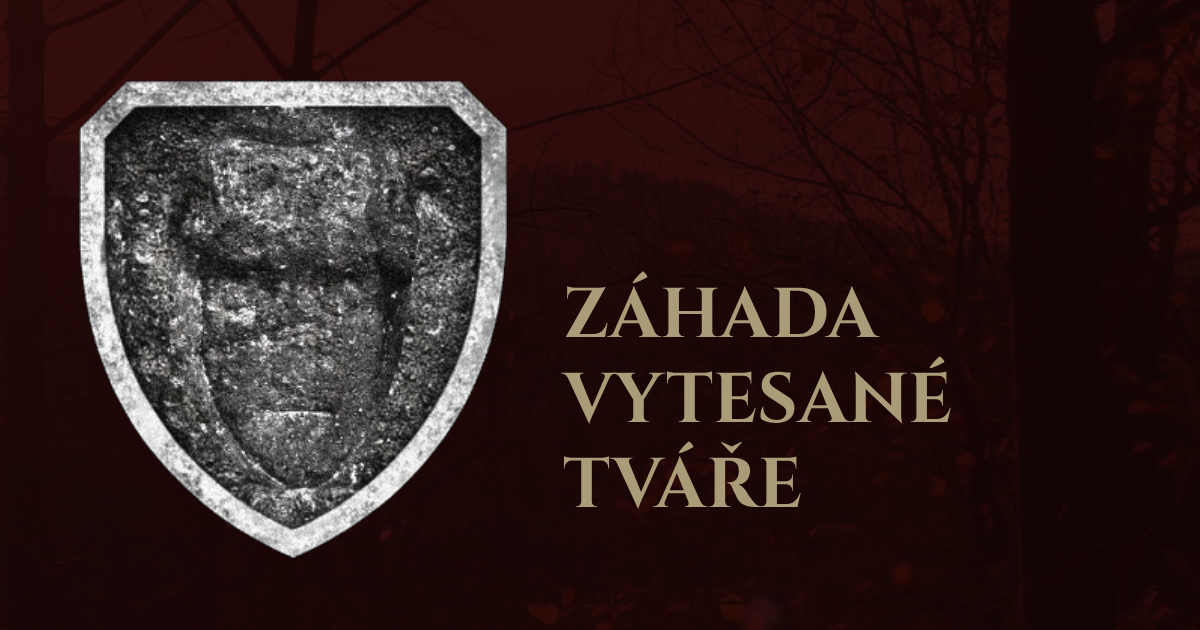
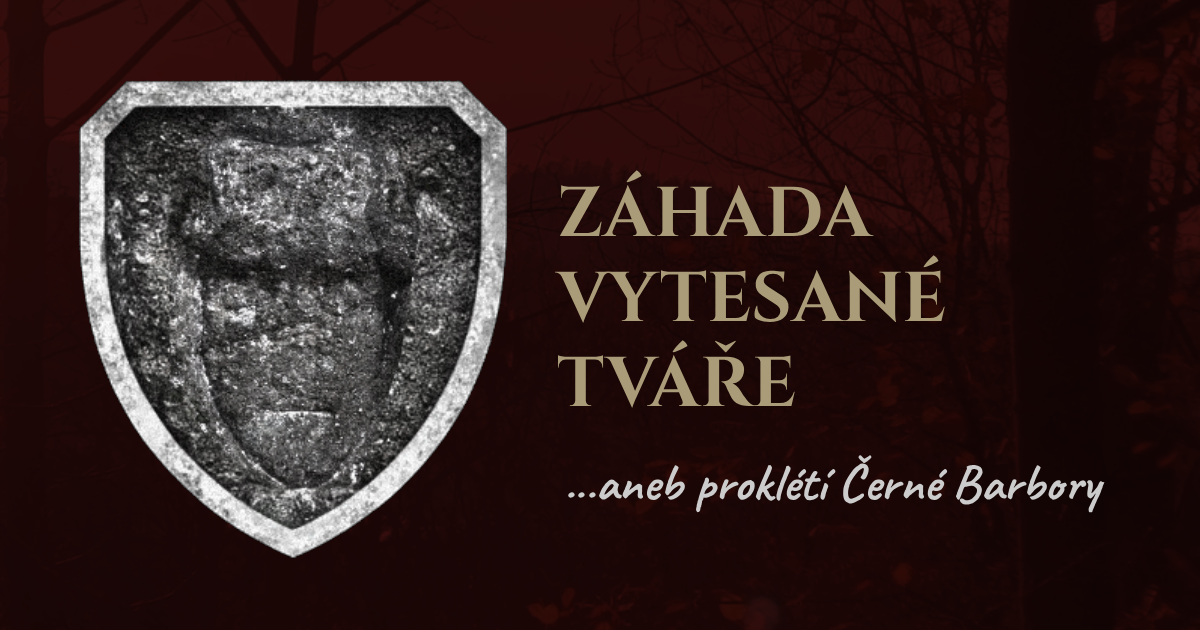
aneb

Changed region(s): [[0.4625, 0.3921, 0.925, 0.8143], [0.4625, 0.2714, 0.74, 0.3921]]

diff --git a/index.html b/index.html
@@ -3,7 +3,7 @@
 
 <head>
 
-	<title>Záhada Vytesané Tváře</title>
+	<title>Záhada Vytesané Tváře … aneb Prokletí Černé Barbory</title>
 
 	<meta charset="UTF-8">
 	<meta name="viewport" content="width=device-width, initial-scale=1.0">
@@ -13,7 +13,7 @@
     <meta name="author" content="Jan Gerek">
 
 	<!-- OPEN GRAPH (Facebook, LinkedIn, Discord, Slack…) -->
-    <meta property="og:title" content="Záhada Vytesané Tváře">
+    <meta property="og:title" content="Záhada Vytesané Tváře … aneb Prokletí Černé Barbory">
     <meta property="og:description" content="Krátká point-and-click adventura zasazená do tajemného lesa pod Štandlem. Prozkoumávejte prostředí, sbírejte stopy a řešte hádanky, abyste odhalili záhadu vytesané tváře na kameni.">
     <meta property="og:type" content="website">
     <meta property="og:url" content="https://zahada-vytesane-tvare.vercel.app/">
@@ -24,10 +24,10 @@
 
     <!-- TWITTER CARD (X.com) -->
     <meta name="twitter:card" content="summary_large_image">
-    <meta name="twitter:title" content="Záhada Vytesané Tváře">
+    <meta name="twitter:title" content="Záhada Vytesané Tváře … aneb Prokletí Černé Barbory">
     <meta name="twitter:description" content="Krátká point-and-click adventura zasazená do tajemného lesa pod Štandlem. Prozkoumávejte prostředí, sbírejte stopy a řešte hádanky, abyste odhalili záhadu vytesané tváře na kameni.">
     <meta name="twitter:image" content="https://zahada-vytesane-tvare.vercel.app/assets/images/og-image.png">
-    <meta name="twitter:site" content="@tvujUcet" />
+    <meta name="twitter:site" content="@zahadavytesanetvare" />
 
 	<link rel="canonical" href="https://zahada-vytesane-tvare.vercel.app/" />
 	<meta name="robots" content="index, follow">
@@ -56,6 +56,7 @@
 
 	<div class="game-container">
 		<h1>Záhada Vytesané Tváře</h1>
+		<h2 class="aneb">... aneb prokletí Černé Barbory</h2>
 		<div id="viewport">
 			<div class="loading-overlay" id="loading-overlay"><!-- Čekání na osud... --></div>
 			<div class="direction-label" id="direction-label"></div>

diff --git a/style.css b/style.css
@@ -38,6 +38,22 @@ h1 {
 	text-shadow: 0 0 5px rgba(170, 156, 120, 0.5);
 	font-weight: 700;
 	text-align: center;
+	margin-bottom: 5px;
+}
+
+h2.aneb {
+	font-family: 'Caveat', serif;
+	font-weight: 400;
+	font-size: 1.4rem;
+	text-transform: none;
+	text-align: center;
+	margin-top: -10px;
+	margin-bottom: 10px;
+	color: #ffffff;
+	text-shadow: 0px 0px 16px #b53b3b;
+	position: relative;
+    top: -20px;
+    left: 50px;
 }
 
 a {
